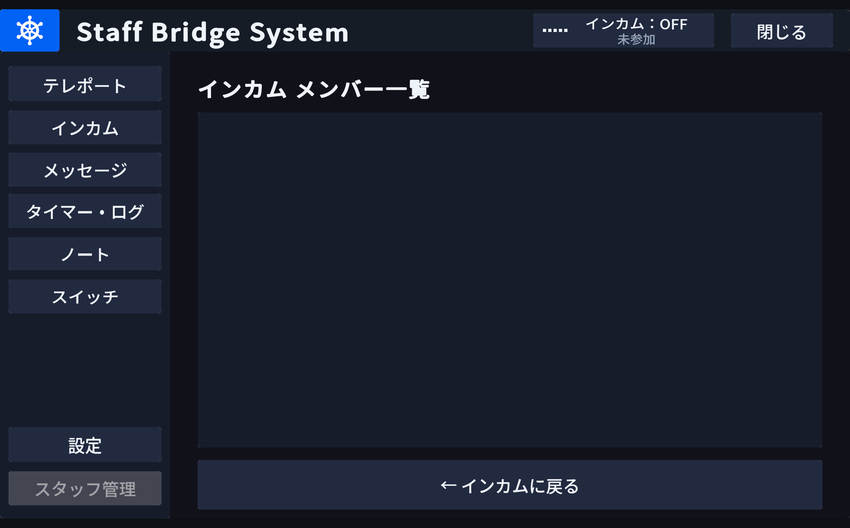
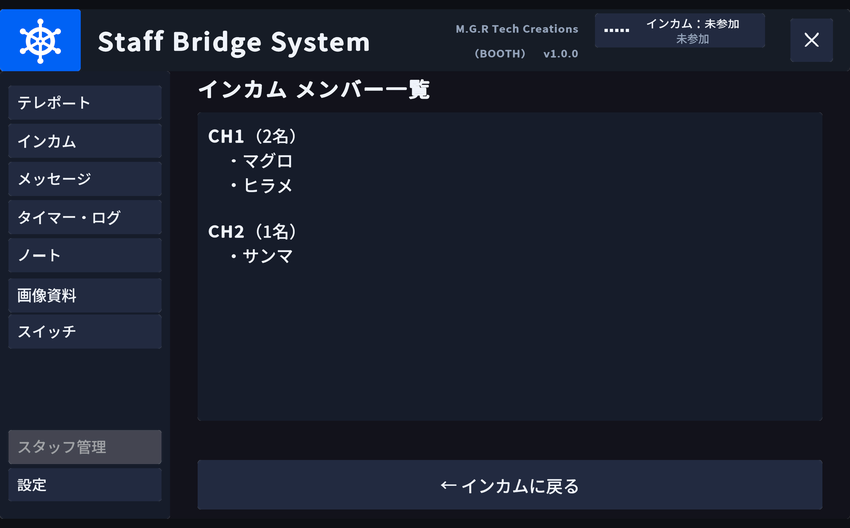
現行実装に合わせて公開ドキュメントとUI画像を更新
- デスクトップ数字キータブ切替（1〜9、入力欄バイパス）、VR触覚フィードバック、テレポート地点★永続化を反映
- インカムのVR耳元操作（PTT/トグル/OFF）、視界HUD発話者名表示を反映
- 共有タイマーの「＋10分」ボタン、タイマー連動トリガー設定テーブルを反映
- 画像資料タブの手元表示操作（行の2回押し／目アイコン／再押下で非表示）および編集窓ドラッグ並び替えを反映
- 全UIスクリーンショット画像を最新仕様の実機撮影画像へ更新し、画像資料タブの画像を追加

diff --git a/docs/staff-bridge-system/howto.md b/docs/staff-bridge-system/howto.md
@@ -15,7 +15,7 @@
 
 | ページ | 内容 |
 |---|---|
-| メニュー構成 | タブの並べ替えと ON / OFF、メニューの作り直し、テレポート先の編集、定型文編集、ノート編集 |
+| メニュー構成 | タブの並べ替えと ON / OFF、メニューの作り直し、テレポート先の編集、定型文編集、ノート編集、画像資料編集（各編集窓はドラッグ並び替え対応） |
 | メニューの出かた | 開く長押し秒・Desktop開閉キー・スティックのしきい値、表示スケール／距離／下オフセット、自動で閉じる距離、最初に開くタブ |
 | テーマ・フォント | 配色テーマの選択、カスタム色、フォント、生成済みメニューへの再着色 |
 | インカム | チャンネル数（2〜16）の変更、各チャンネルの表示名、スタッフ限定モード・送信解除の待ち秒・ジェスチャー発話、インカムの一時停止 |
@@ -37,11 +37,12 @@
 | 使わないタブを消したい | メニュー構成ページ > 各行のチェックを外す → **この構成でメニューを作り直す**（「設定」タブは常に ON） |
 | タブの並び順を変えたい | メニュー構成ページ > 行をドラッグして並べ替え → **この構成でメニューを作り直す** |
 | 作り直すと設定が消えないか知りたい | テレポート先・チャンネル名・定型文・ノート・画像資料・スイッチの設定・既定値・メニューの位置は引き継がれます。メニュー自体は新しいオブジェクトになるため、外部から参照している場合は貼り直しが必要です |
-| 画像資料を登録・差し替えたい | メニュー構成ページ > **画像資料編集を開く**。画像とページ名を最大16枚まで編集し、**画像資料に反映**を押す。メニューの作り直しは不要 |
-| ノートの内容を書き換えたい | メニュー構成ページ > **ノート編集を開く**（ページの追加・並べ替え・本文の編集。最大6ページ） |
+| 画像資料を登録・差し替えたい | メニュー構成ページ > **画像資料編集を開く**。画像とページ名を最大16枚まで編集（≡でドラッグ並べ替え可）し、**画像資料に反映**を押す。メニューの作り直しは不要 |
+| ノートの内容を書き換えたい | メニュー構成ページ > **ノート編集を開く**（ページの追加・≡でドラッグ並べ替え・本文の編集。最大6ページ） |
 | スイッチの発火先を決めたい | スイッチページ > **＋ 行を追加** → ラベル／発火先／イベント名 を入れる（発火先だけはHierarchyからドラッグ、または右の◎から選ぶ） |
 | スイッチでオブジェクトを出し入れしたい | 同梱の `StaffObjectToggle` を空のオブジェクトに付け、**対象**に出し入れしたい GameObject を入れる。スイッチページの発火先にそれを指定し、イベント名を `Toggle`（`TurnOn` / `TurnOff` も可）にする |
 | 共有タイマーの2回押しの猶予を変えたい | 既定値ページ > **共有タイマーの確認秒**（既定 5） |
+| 共有タイマー終了時にギミックを動かしたい | Inspector：`StaffOpsTimer` の **終了時トリガー** に `StaffTrigger` を指定し、**終了時トリガー番号** を設定 |
 | 入退室ログの保持件数を変えたい | 既定値ページ > **入退室ログの保持行数**（既定 100） |
 | 通知ログの既定位置を変えたい | 既定値ページ > **通知ログの位置**（各自が設定タブで上書きできます） |
 | 入退室を通知ログに出したくない | 既定値ページ > **入退室を通知ログに載せる** を OFF |
@@ -92,15 +93,16 @@
 | スタッフ以外にインカムを聞かせたくない | インカムページ > **スタッフ限定モード** を ON のまま使う（既定 ON・ワールドに焼き込み） |
 | 語尾が切れる | インカムページ > **送信解除の待ち秒**（既定 0.3。目安 0.2〜0.4） |
 | 耳元ジェスチャーの位置を変えたい | インカムページ > **ジェスチャーの位置**（耳／肩／胸元）。手はインカム＝右・メガホン＝左で固定です |
-| ジェスチャーが反応しにくい／誤爆する | インカムページ > **判定半径**（既定 0.20m。目安 0.15〜0.25）。目線の高さ 1.6m のアバターを基準にした値で、小さいアバターでは自動で縮みます |
-| 押しっぱなしをやめてトグルにしたい | 各自がメニューの[設定タブ](usage.md#settings)で切り替え。初期値は Inspector の `StaffTalkSettings` |
+| ジェスチャーが反応しにくい／誤操作を防ぎたい | インカムページ > **判定半径**（既定 0.20m。目安 0.15〜0.25）。目線の高さ 1.6m のアバターを基準にした値で、小さいアバターでは自動で縮みます。各自が設定タブでOFFにすることもできます |
+| 押しっぱなしをやめてトグルやOFFにしたい | 各自がメニューの[設定タブ](usage.md#settings)で切り替え（ボタンは長押し／トグル、VRの耳元操作はPTT／トグル／OFF）。初期値は Inspector の `StaffTalkSettings` |
+| 受信時に誰が話しているかを視界で見たい | 各自がメニューの[設定タブ](usage.md#settings)で **受信時の発話者名** を ON（既定 ON） |
 | 誰の声が誰に聞こえるか事前に確かめたい | 診断・修復ページ > インカム聴こえ方マトリクス検査 |
 
 ## メガホン
 
 | やりたいこと | 触る場所 |
 |---|---|
-| VRメガホンの誤操作を避けたい | ワールド内の設定タブ > **メガホンVR** を長押し／トグル／OFFから選択 |
+| VRメガホンの誤操作を避けたい | ワールド内の設定タブ > **VRの耳元操作（メガホン）** を長押し／トグル／OFFから選択 |
 | メガホンの起動を重く／軽くしたい | 既定値ページ > **メガホンの長押し秒**（既定 0.5） |
 | メガホンの使いすぎを止めたい | 既定値ページ > **メガホンの最大使用秒**（既定 180） |
 | スタッフ以外を含む全員に呼びかけたい | メニューのメガホンボタンを長押し → [メガホン](usage.md#megaphone) |
@@ -126,7 +128,7 @@
 
 | やりたいこと | 触る場所 |
 |---|---|
-| 定型文をイベント用に書き換えたい | メニュー構成ページ > 定型文編集 → [運用ガイド](operation.md#broadcast-presets) |
+| 定型文をイベント用に書き換えたい | メニュー構成ページ > 定型文編集（≡でドラッグ並べ替え可） → [運用ガイド](operation.md#broadcast-presets) |
 | よく使う文をまとめたい | 同じ画面でカテゴリ名を揃える（カテゴリごとにタブが分かれる） |
 | 緊急の文を目立たせたい | プリセット本文に TMP のリッチテキスト（`<color=...>` など）を使う |
 | 通知ログの行がすぐ消える／残りすぎる | 既定値ページ > **通知ログの表示秒**（既定 20）、**自分宛の表示秒**（既定 40） |
@@ -142,13 +144,13 @@
 
 | やりたいこと | 触る場所 |
 |---|---|
-| 行き先を登録・並べ替えたい | メニュー構成ページ > テレポート先の編集（**上限16件**） |
+| 行き先を登録・並べ替えたい | メニュー構成ページ > テレポート先の編集（**上限16件**・≡でドラッグ並べ替え可） |
 | ボタンの表示名を変えたい | 同じ画面で名前を入力（未入力なら Transform 名） |
 | 着地が重なるのを防ぎたい | 既定値ページ > **着地点をばらつかせる**（既定 ON）。ずらす幅は **ばらつきの最小／最大半径**（既定 0.3／0.8m）。登録地点へ飛ぶときだけ効きます |
 | スタッフの元へ飛ぶ距離を変えたい | 既定値ページ > **スタッフの背後距離**（既定 0.1m）。広い会場なら 0.5〜1.0 でも構いませんが、離すほど壁際のスタッフへ飛んだときに壁の外へ出やすくなります |
 | ワープ音を付けたい | Inspector：`StaffTeleportMenu` の **ワープ音** に AudioSource を割り当て |
 
-お気に入り（★）はインスタンス内でのみ有効で、退室するとリセットされます。
+地点のお気に入り（★）は `PlayerData` に保存され、再入場後も保持されます（スタッフのお気に入りは退室するとリセットされます）。
 
 ## スタッフ限定のオブジェクト
 

diff --git a/docs/staff-bridge-system/features.md b/docs/staff-bridge-system/features.md
@@ -10,18 +10,18 @@
 
 | 機能 | できること | 詳しくは |
 |---|---|---|
-| テレポート | 行を1回押して選択し、同じ行をもう1回押して移動する。登録地点と在室スタッフのところへ移動し、相手の背後に着地する。★でお気に入りに入れると一覧の上に並ぶ | [使い方](usage.md#teleport) / [設定](reference.md#teleport) |
-| インカム | 同じチャンネルに参加している人だけに聞こえる通話。参加中のメンバーと、いま話している人が一覧に出る | [使い方](usage.md#incom) / [設定](reference.md#incom) |
-| メガホン | 距離に関係なく、スタッフ以外を含む全員へ声を届ける。ボタン長押し／Desktopキー／VRジェスチャー（左手）の3通りで始められる。VRは長押し／トグル／OFFを選択可能 | [使い方](usage.md#megaphone) / [設定](reference.md#megaphone) |
-| 一斉メッセージ | 全スタッフ、宛先グループ、選んだスタッフへ定型文を送る。グループは複数選べ、個人ともまとめられる。複数に当てはまる人にも1通だけ届く | [使い方](usage.md#broadcast) / [設定](reference.md#broadcast) |
-| タイマー | スタッフ全員に見える共有タイマーと、自分だけのタイマー・ストップウォッチ。時間になると短い通知音が鳴る | [使い方](usage.md#timer) / [設定](reference.md#timer) |
+| テレポート | 行を1回押して選択し、同じ行をもう1回押して移動する。登録地点と在室スタッフのところへ移動し、相手の背後に着地する。★でお気に入りに入れると一覧の上に並ぶ（地点のお気に入りは再入場後も保持）。VRではコントローラー振動で操作を通知 | [使い方](usage.md#teleport) / [設定](reference.md#teleport) |
+| インカム | 同じチャンネルに参加している人だけに聞こえる通話。参加中のメンバーと、いま話している人が一覧に出る。視界HUDにも受信中の発話者名を表示可能。VR耳元操作はPTT／トグル／OFFを選択可能 | [使い方](usage.md#incom) / [設定](reference.md#incom) |
+| メガホン | 距離に関係なく、スタッフ以外を含む全員へ声を届ける。ボタン長押し／Desktopキー／VRジェスチャー（左手）の3通りで始められる。VRは長押し／トグル／OFFを選択可能。VRではコントローラー振動で通知 | [使い方](usage.md#megaphone) / [設定](reference.md#megaphone) |
+| 一斉メッセージ | 全スタッフ、宛先グループ、選んだスタッフへ定型文を送る。グループは複数選べ、個人ともまとめられる。複数に当てはまる人にも1通だけ届く。1人でのリハーサル時も全員宛なら送信可能 | [使い方](usage.md#broadcast) / [設定](reference.md#broadcast) |
+| タイマー | スタッフ全員に見える共有タイマーと、自分だけのタイマー・ストップウォッチ。ワンタップの＋10分プリセットや、終了時のスイッチ連動に対応。時間になると短い通知音が鳴る | [使い方](usage.md#timer) / [設定](reference.md#timer) |
 | 入退室ログ | 誰がいつ入室・退室したかの記録 | [使い方](usage.md#timer) / [設定](reference.md#join-log) |
 | ノート | 全員に見える共有メモと、自分だけの走り書きメモ。進行台本やチェックリストの掲示に使う。どちらも視界の右下に出しておける | [使い方](usage.md#note) / [設定](reference.md#cue) |
-| 画像資料 | ワールド制作者が用意した画像をメニューで確認し、必要な画像を本人の手元へ出す。最大16枚、複数枚を同時表示できる | [使い方](usage.md#image) / [設定](reference.md#image) |
+| 画像資料 | ワールド制作者が用意した画像をメニューで確認し、行の2回押しで本人の手元へ出す。表示済みの行を再度押すと手元から非表示にできる。最大16枚、複数枚を同時表示できる | [使い方](usage.md#image) / [設定](reference.md#image) |
 | スイッチ | 手元からワールド内のギミックへイベントを送る。誰がいつ押したかの履歴が残る | [使い方](usage.md#switch) / [設定](reference.md#trigger) |
 | 通知ログ | 受信・タイマーの時間切れ・人の出入りを、視界の隅の1本のログにまとめて流す。左下／非表示を選択可能 | [使い方](usage.md#notice-log) / [設定](reference.md#notice-log) |
 | スタッフ管理 | 在室者を当日スタッフにする／当日スタッフを外す。常設スタッフで現在スタッフONの人だけが開けるタブ | [使い方](usage.md#staff-manage) / [設定](reference.md#grant-panel) |
-| 設定 | 音量・UI サイズ・発話方式・通知ログとノートの位置を各自で調整する。再入場しても残る | [使い方](usage.md#settings) / [既定値](reference.md#settings-defaults) |
+| 設定 | 音量・UI サイズ・発話方式・VR耳元操作・受信時の発話者名・通知ログとノートの位置を各自で調整する。再入場しても残る | [使い方](usage.md#settings) / [既定値](reference.md#settings-defaults) |
 
 ## シーンに置くもの
 
@@ -47,8 +47,8 @@
 |---|---|---|
 | セットアップ | 一式をボタン1つで配置し、相互の接続まで済ませる | [導入](install.md) |
 | Prefab を個別に置く | 部品を1つずつ足す。置くと同時に名簿へ接続される | [導入](install.md#single-prefab) |
-| メニュー構成 | タブの並べ替えと ON / OFF。テレポート先・定型文・ノート・画像資料の編集。設定を引き継いだまま作り直せる | [やりたいことから探す](howto.md) |
-| 画像資料編集 | 画像とページ名を最大16枚まで差し替える。メニューを作り直さずに反映できる | [やりたいことから探す](howto.md#menu-config) |
+| メニュー構成 | タブの並べ替えと ON / OFF。テレポート先・定型文・ノート・画像資料の編集（ドラッグ並べ替え対応）。設定を引き継いだまま作り直せる | [やりたいことから探す](howto.md) |
+| 画像資料編集 | 画像とページ名を最大16枚まで差し替え・ドラッグ並べ替え。メニューを作り直さずに反映できる | [やりたいことから探す](howto.md#menu-config) |
 | メニューの出かた | 開く操作、出る位置と大きさ、閉じかた、最初に開くタブ | [設定](reference.md#menu-shell) |
 | テーマ・フォント | 配色テーマ9種＋カスタム（役割色12色を個別編集）、フォントの差し替え。生成済みのメニューにも適用できる | [カスタマイズ](customize.md) |
 | インカム | チャンネル数・チャンネル名、インカムの届き方と発話、一時停止 | [運用](operation.md#incom-power) |
@@ -70,5 +70,5 @@
 | メニューを開ける人 | スタッフ状態のプレイヤーだけです |
 | テレポート先の数 | 16件までです |
 | 画像資料の数 | 16枚までです。画像はワールド容量に加算されます |
-| お気に入り | インスタンス内でのみ有効です。退室するとリセットされます |
+| お気に入り | 地点のお気に入りは再入場後も保持されます。スタッフのお気に入りは退室するとリセットされます |
 | UI の言語 | 日本語です |

diff --git a/docs/staff-bridge-system/changelog.md b/docs/staff-bridge-system/changelog.md
@@ -6,12 +6,25 @@
 
 ---
 
+## 2026-09-17 — 機能強化と操作性の改善
+
+- **画像資料の手元表示操作を統一**: 行を1回押して選択、同じ行をもう1回押す（2回押し）ことで本人の手元へ板を出す操作に統一しました。表示中の画像は目アイコンが点灯し、表示済みの行を再度押すことで手元から非表示にできます。
+- **テレポート地点お気に入りの永続化**: 地点のお気に入り（★）を `PlayerData` に保存し、インスタンス再入場後もお気に入りの上位並び順を維持するようにしました（スタッフのお気に入りはセッション限り）。
+- **デスクトップ向け数字キータブ切替**: メニュー展開中、キーボードの数字キー `1`〜`9`（テンキー対応）で左レールのタブを上から順に即座に切り替えられるようにしました（文字入力欄フォーカス中は自動バイパス）。
+- **VRコントローラー触覚フィードバック（Haptics）**: インカム送話開始／終了、メガホン拡声開始／終了、テレポート選択／確定、クイックメニュー項目決定時にコントローラーの微小振動で操作を通知します。
+- **視界HUDの発話中スピーカー名表示**: メニューを閉じた状態でも、インカム受信中に視界HUDの帯が動的に拡張し、チャンネル名と発話中のスタッフ名を表示できるようにしました（設定タブでON／OFF可能、PlayerDataに保持）。
+- **インカムVR耳元操作の3方式化**: 設定タブでインカムのVR耳元操作を「PTT／トグル／OFF」から各自で選べるように整理しました。
+- **共有タイマーのプリセット拡張＆終了時トリガー連動**: ワンタップで加算できるプリセットに「＋10分」を追加（4分割）。共有タイマー終了時にワールド内のスイッチ（StaffTrigger）を自動発火する連動設定に対応しました。
+- **エディタ編集ウィンドウのドラッグ並び替え対応**: 定型文編集、ノート編集、テレポート先編集、画像資料編集の各ウィンドウに「≡」ドラッグハンドルを導入し、ドラッグ＆ドロップで直感的に並び替えできるようにしました。
+- **一斉メッセージの1人リハーサル対応**: 他の在室スタッフが0人の場合でも、「全員宛」なら送信確認・リハーサルができるようにしました。
+- **UI表示・レイアウトの最適化**: ページ送りアイコンを単色三角形に統一し、宛先スタッフ一覧のページ数を在室数に追従、宛先グループチップの班名視認性向上などを実施しました。
+
 ## 2026-09-14 — 現行実装への反映
 
 - 画像資料を追加。最大16枚を4枚ずつ切り替え、選んだ画像を本人の手元へ板として表示できます。複数枚を同時表示でき、Pickupで位置を動かせます。
 - テレポートは行を1回押して選択し、同じ行をもう1回押して実行します。
 - インカムはCHを2〜16個まで設定でき、13〜16CHではカードを4列で表示します。
-- 通知ログの位置は左下／表示しないの2択です。視界表示の向きは通知ログと視界ノートに適用され、メニューは開いた位置と角度に固定されます。
+- 通知ログの位置は左下／表示しないの2択です。視界表示の向きは通知ログとノートに適用され、メニューは開いた位置と角度に固定されます。
 
 ## 1.0.0（未リリース）
 
@@ -49,7 +62,7 @@
 **インカム**
 
 - チャンネル参加・発話ボタン（押している間だけ送信）／VR 耳元ジェスチャー発話・発話者表示
-- スタッフ限定モード（同チャンネルのみに聞こえる密話）
+- スタッフ限定モード（同チャンネルのみに聞こえる通話）
 - チャンネル参加・名簿の自動再送による取りこぼし回復
 - 受信ビープ
 
@@ -77,7 +90,7 @@
 
 **スタッフ限定オブジェクト**
 
-- スタッフゲート（非スタッフを通さない壁）、スタッフだけ見える／一般だけ見える表示切替
+- スタッフゲート（スタッフ以外を通さない壁）、スタッフだけ見える／一般だけ見える表示切替
 - スタッフ専用ボタン（コライダー制御・発火先呼び出しの2方式）
 - 在室スタッフ一覧ボード、頭上マーカー
 
@@ -88,7 +101,7 @@
 - インカムの一時停止（他の音声ギミックと同居させる回の切り替え）
 - セットアップ診断・自動修復、配置後の再リンク
 - アップロード前チェック（ログ出力の消し忘れ防止）
-- テレポート先の後編集、定型メッセージ編集
+- テレポート先の後編集、定型文編集
 - 名簿プリセットの書き出し／読み込み
 - インカム聴こえ方マトリクス検査
 - 問い合わせ用の状態レポート生成（表示名・パス・ワールドIDは含めない）

diff --git a/docs/staff-bridge-system/troubleshoot.md b/docs/staff-bridge-system/troubleshoot.md
@@ -163,10 +163,18 @@ BOOTH のメッセージ機能からご連絡ください。
 あわせて、Console に出ているエラーメッセージがあれば添えてください。
 
 
-## VRメガホンが意図せず起動する・止まらない
+## VRの耳元操作（インカム／メガホン）が意図せず起動する・止まらない
 
-設定タブの「メガホンVR」で長押し／トグル／OFFを選べます。トグルはトリガーを離しても続くため、もう一度押して止めてください。方式を変更したときも止まります。VRショートカットを使わない場合はOFFにします。
+設定タブの「VRの耳元操作」でインカム（右手）・メガホン（左手）それぞれ長押し（PTT）／トグル／OFFを選べます。トグルはトリガーを離しても続くため、もう一度操作して止めてください。方式を変更したときも止まります。VRショートカットを使わない場合はOFFにします。
+
+## 視界HUDに発話者名が出ない
+
+設定タブの「受信時の発話者名」がOFFになっていないか確認してください。発話者名は誰かが話している間（受信中）のみ帯が拡張して表示されます。待機中や送信中はチャンネル番号のみの表示に戻ります。
 
 ## タイマーの通知音が聞こえない
 
 設定タブの「通知音」が0になっていないか確認してください。音が鳴るのはタイマーが0に到達したときです。ストップウォッチの経過中には鳴りません。
+
+## タイマー終了時にギミックが連動しない
+
+Inspector で `StaffOpsTimer` の「終了時トリガー」にシーン内の `StaffTrigger` が割り当てられているか確認してください。また、指定した「終了時トリガー番号」の行に正しい発火先とイベント名が設定されているかも確認してください。連動発火は共有タイマーのOwner（通常は開始操作を行ったクライアント）から1回実行されます。
